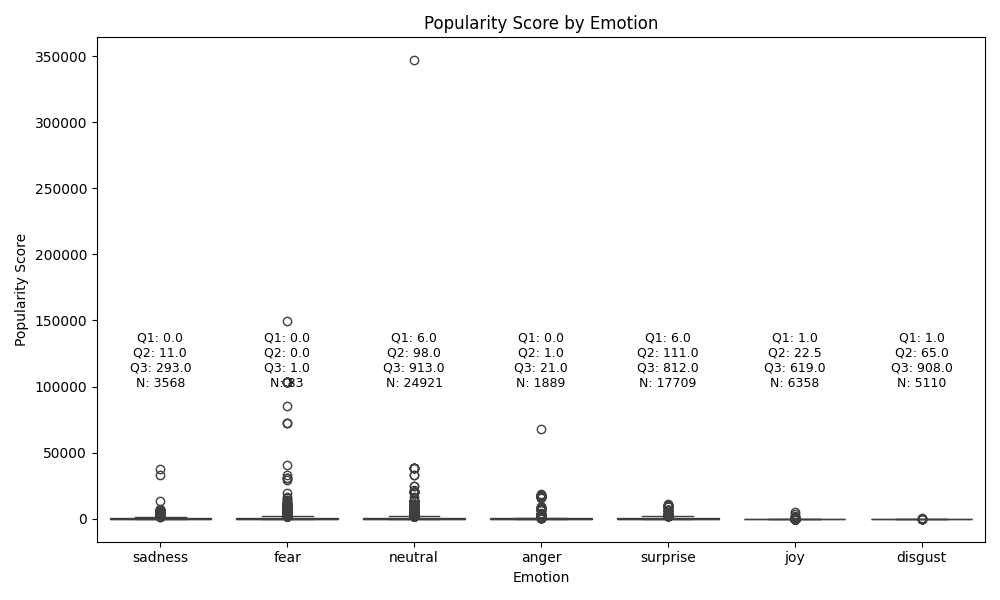
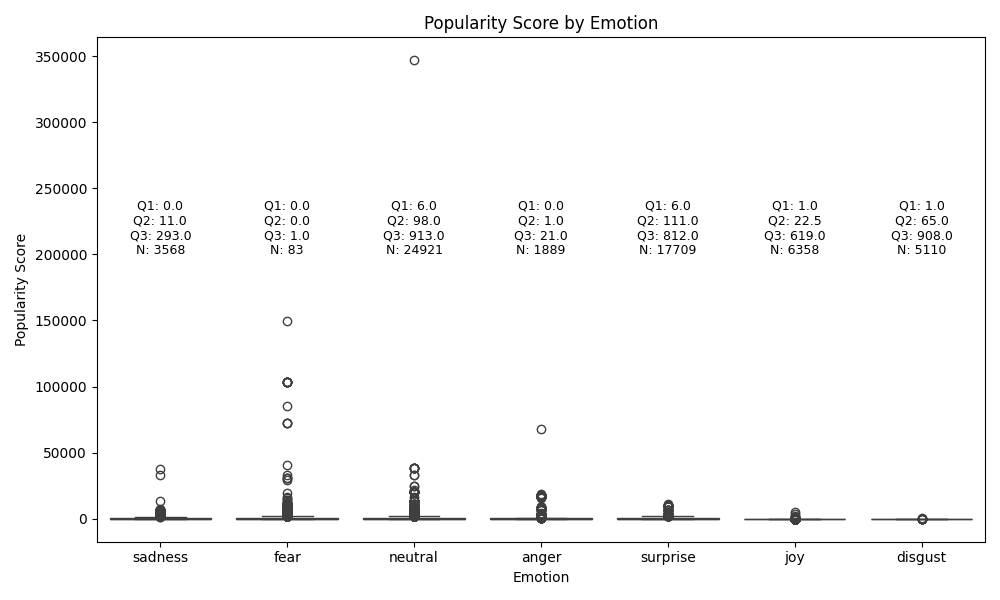
tinkered with spacing

diff --git a/Phase-2/Scripts/regression.py b/Phase-2/Scripts/regression.py
@@ -110,7 +110,7 @@ def main():
             f"Q3: {stats['75%']:.1f}\n"
             f"N: {int(stats['count'])}"
         )
-        y_pos = stats["25%"] + 100000  # 5% above Q3 for spacing
+        y_pos = stats["25%"] + 200000  # 5% above Q3 for spacing
         plt.text(i, y_pos, label, ha='center', fontsize=9, color="black")
 
     plt.title("Popularity Score by Emotion")
